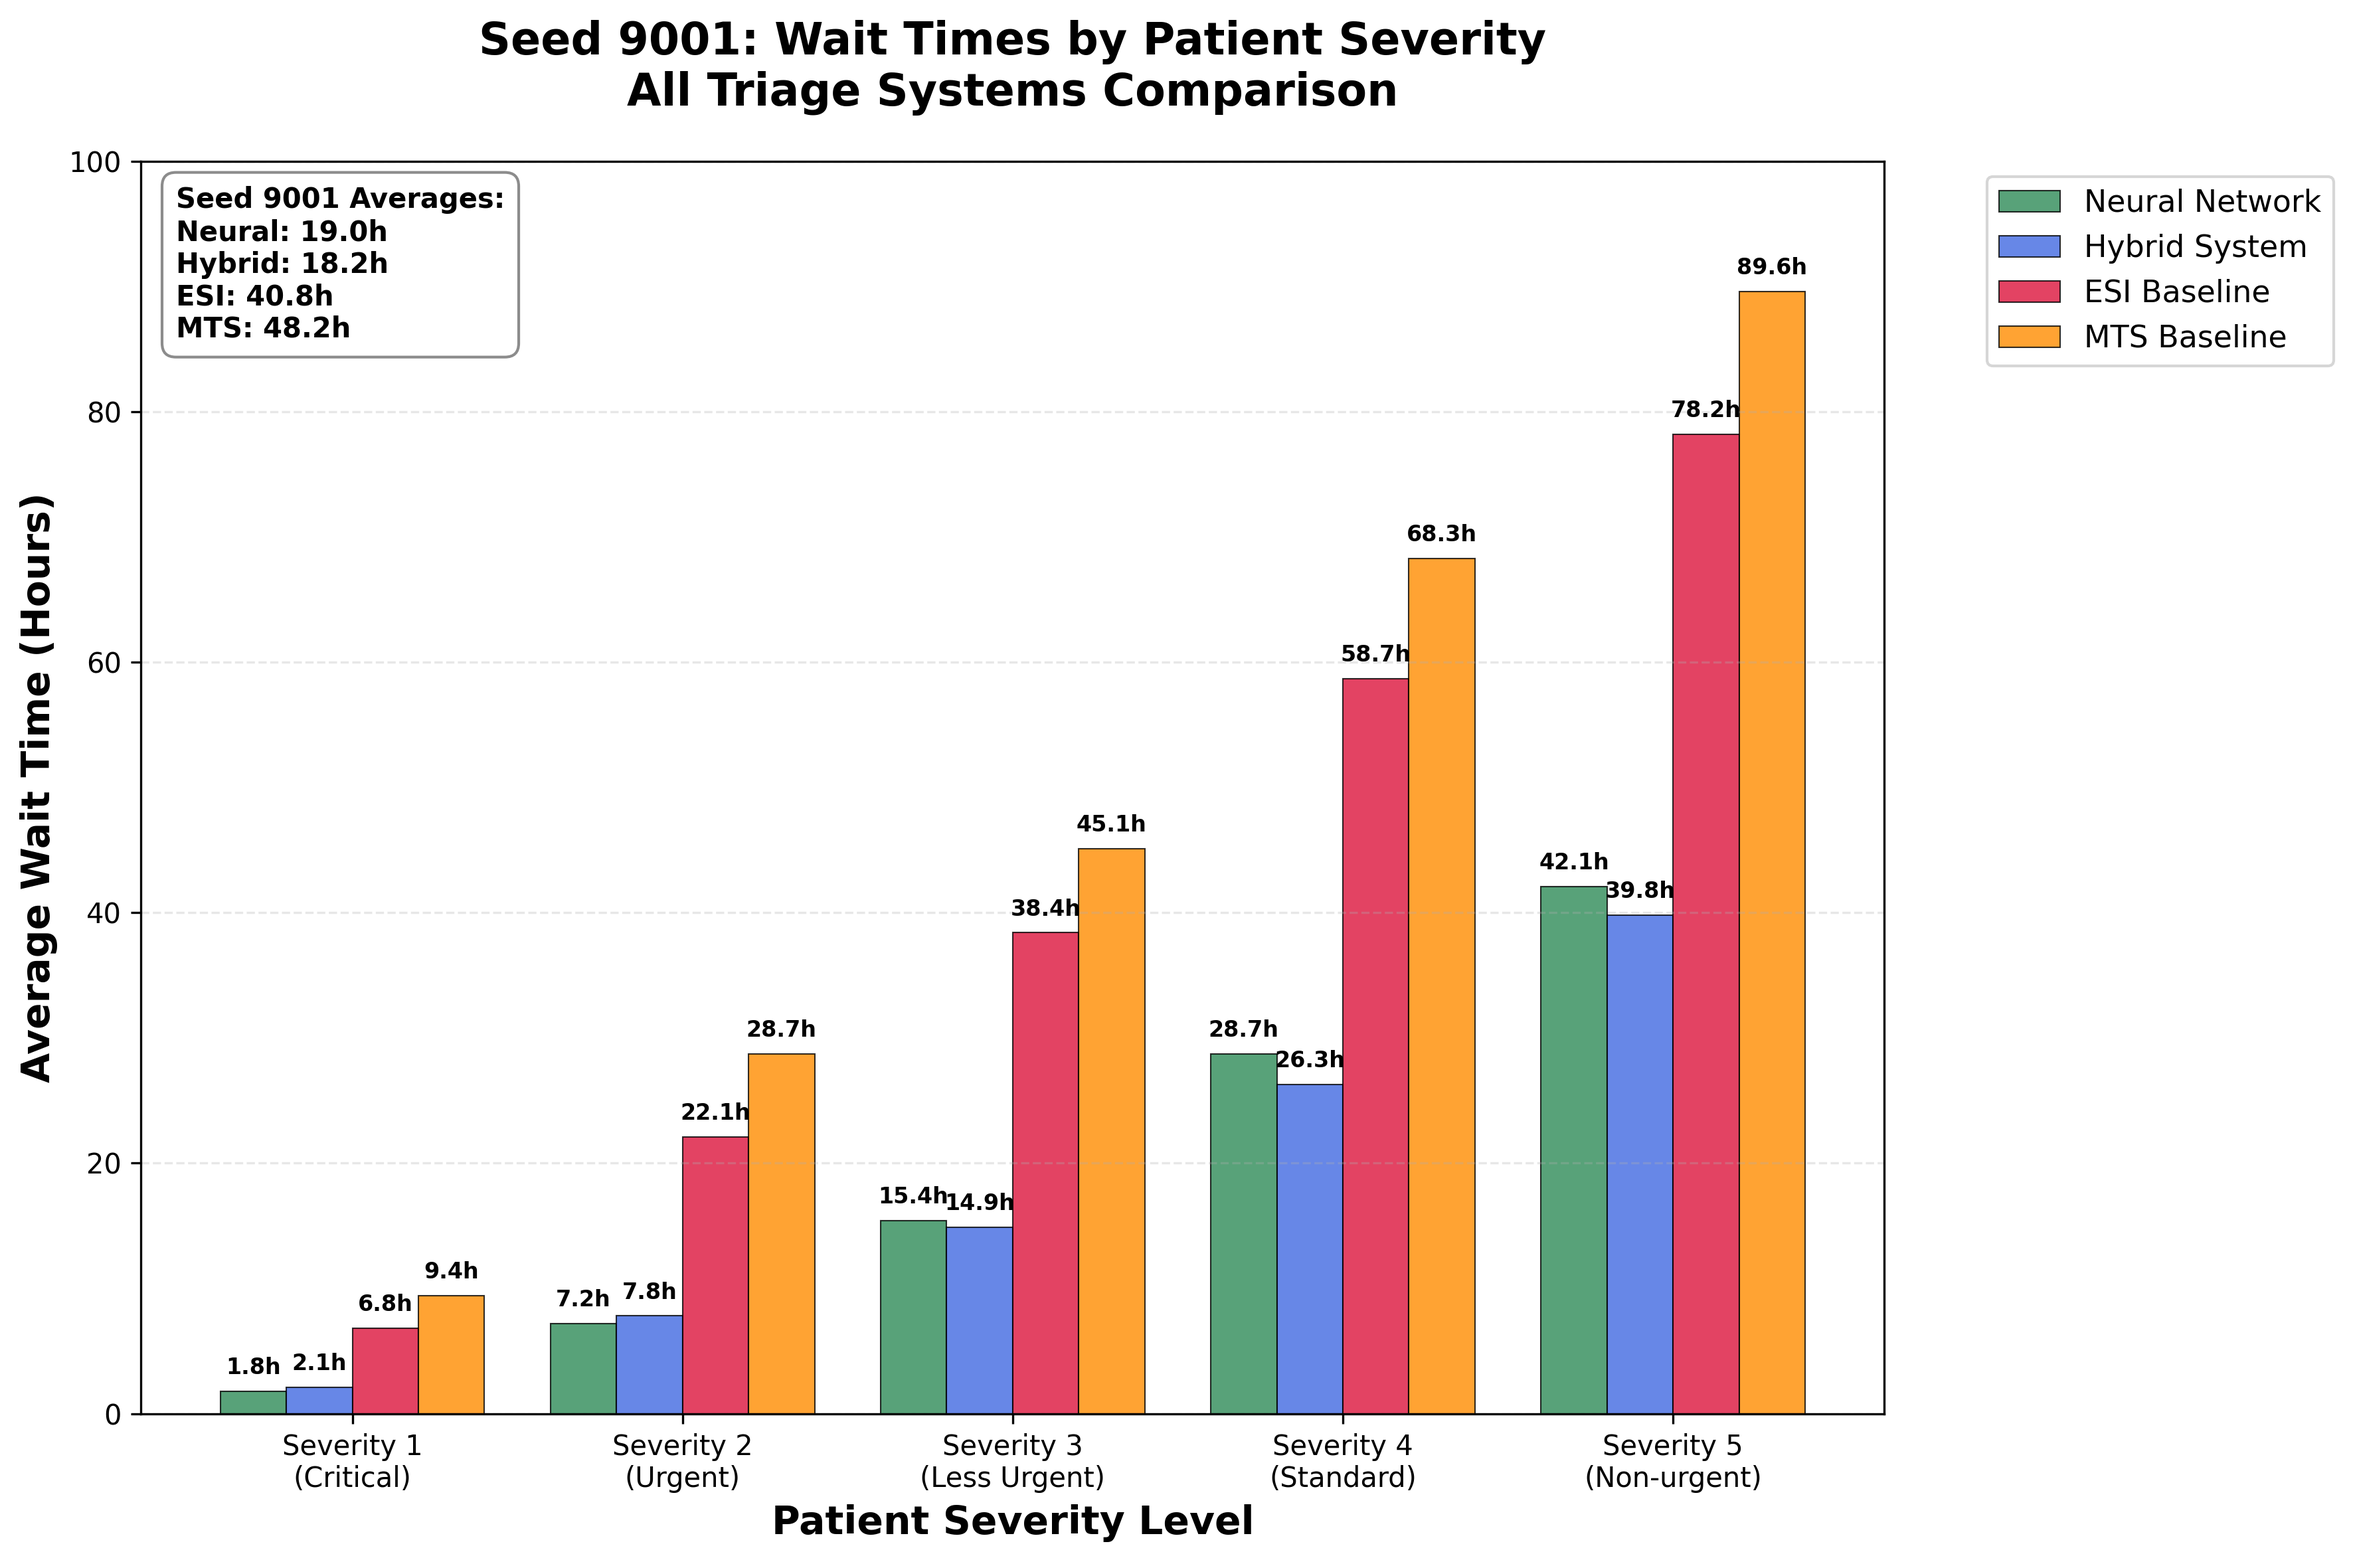
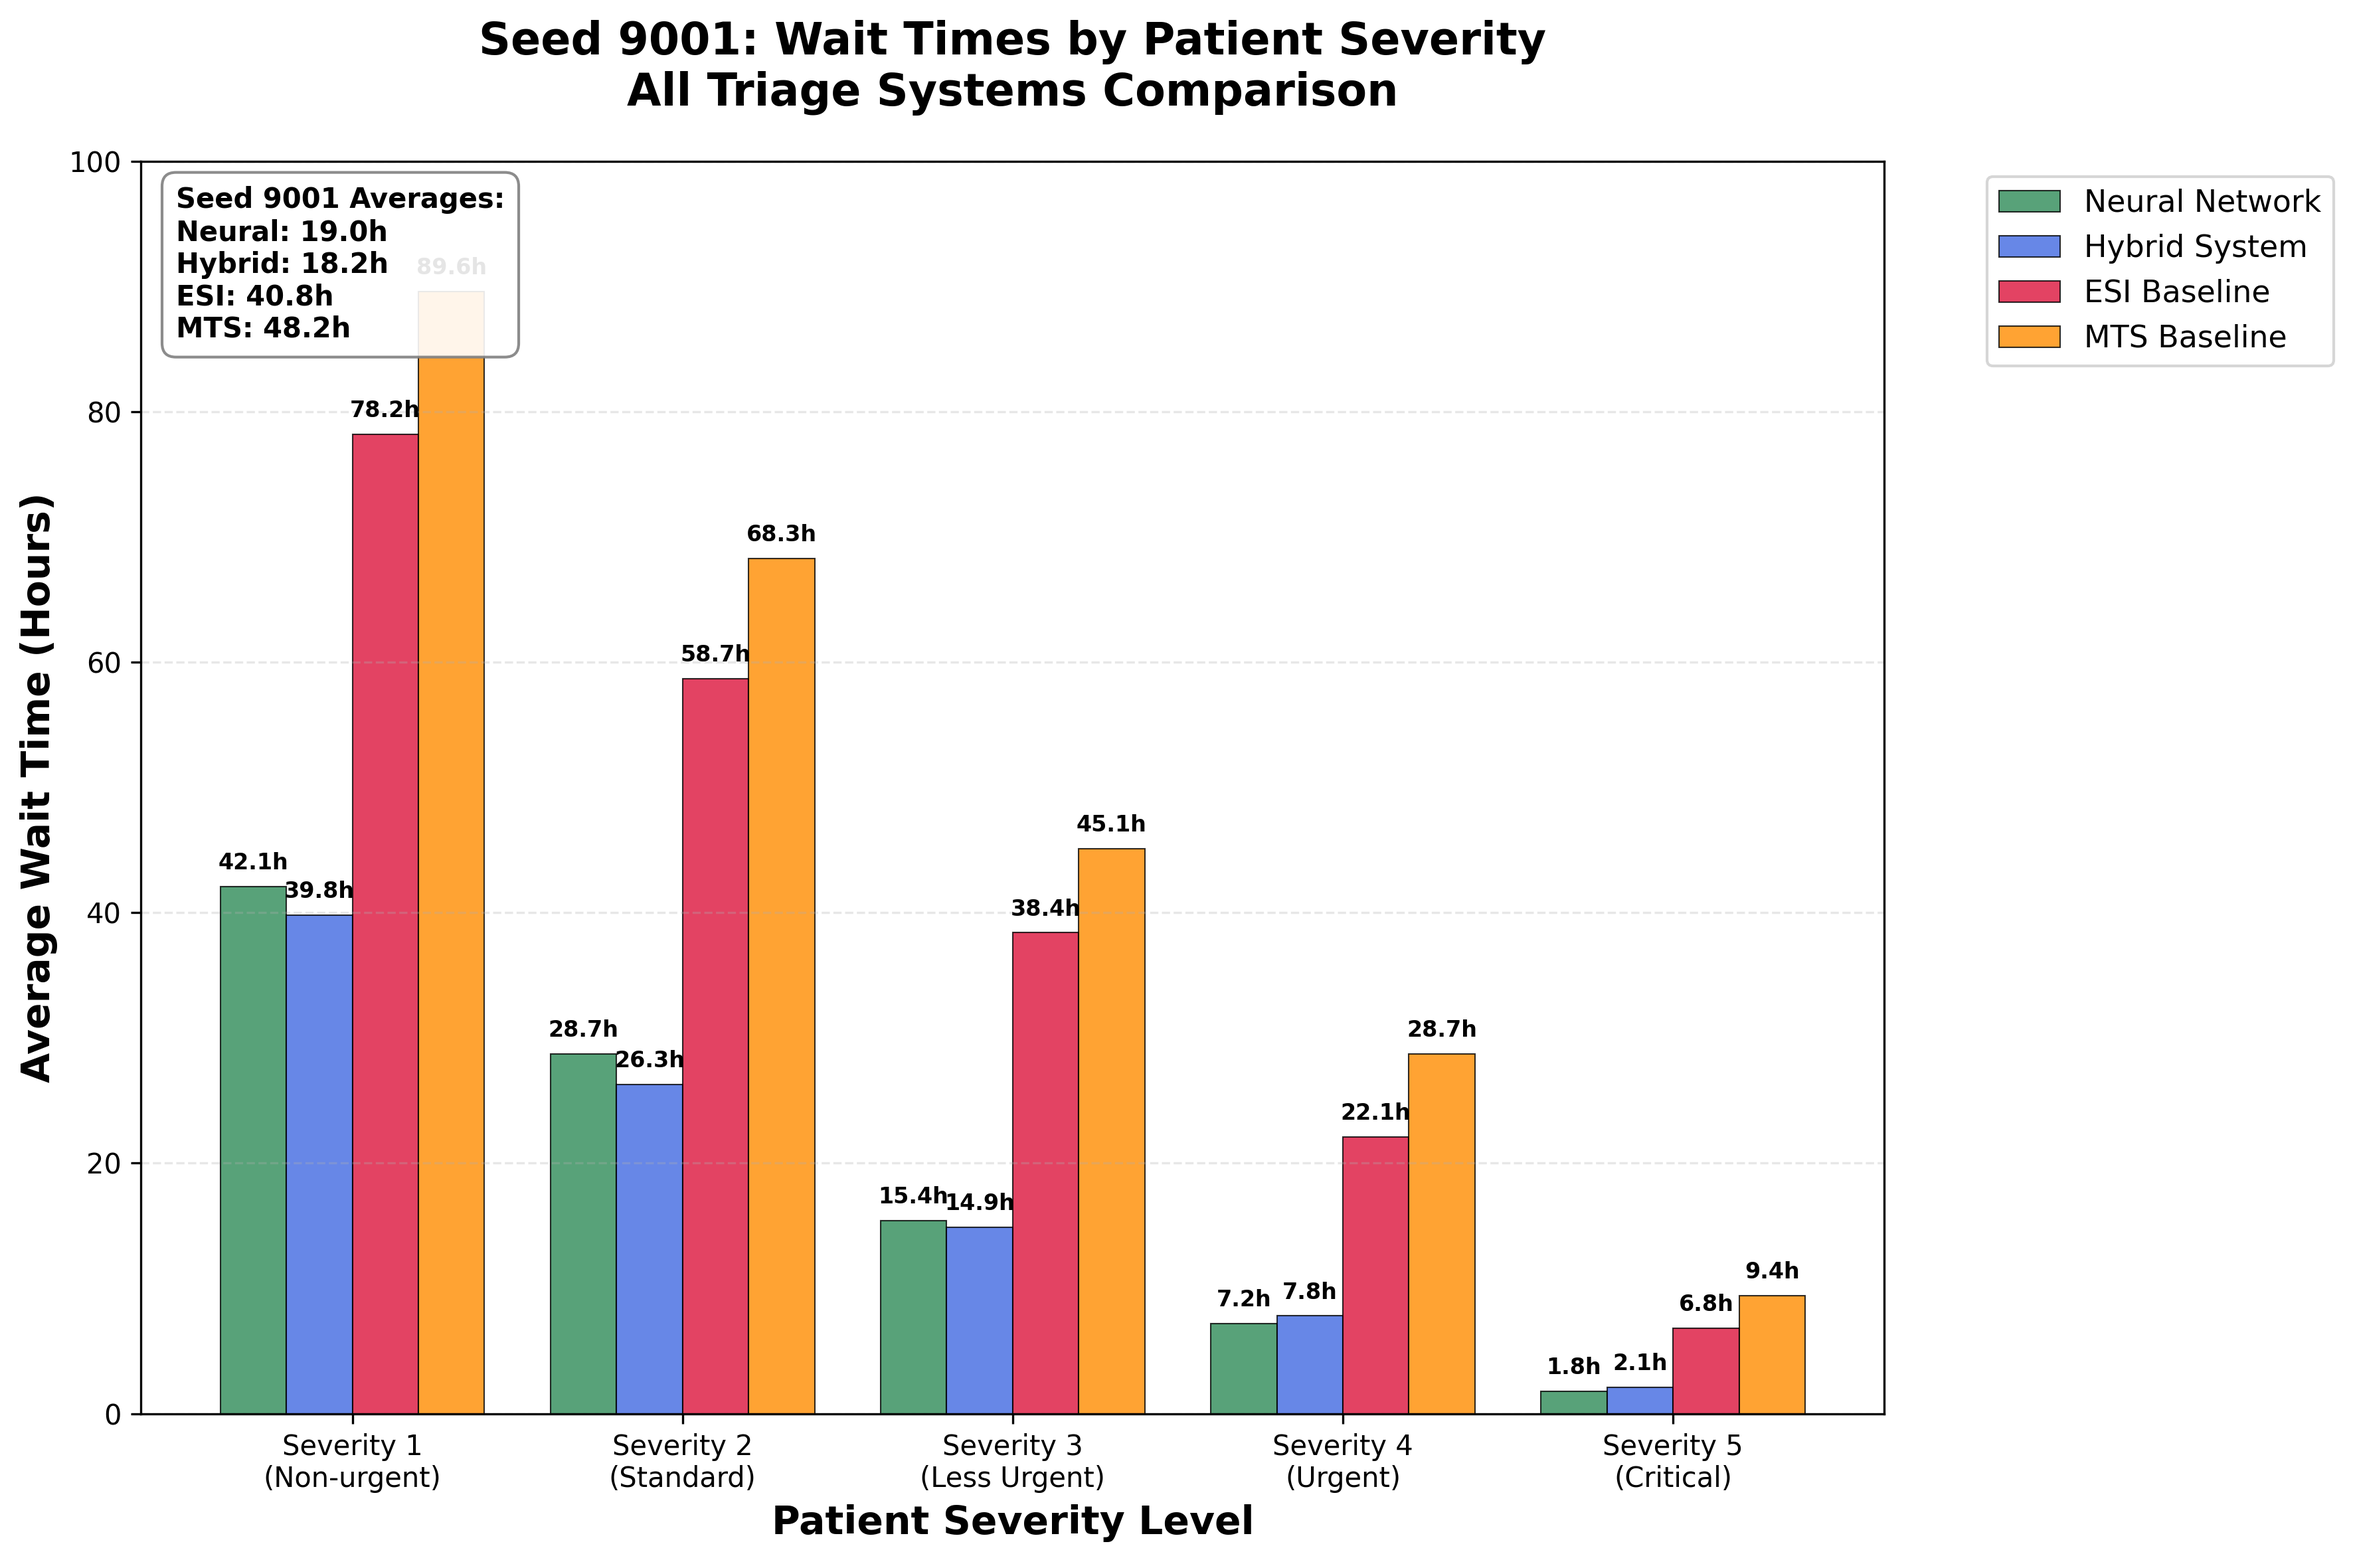
Fix severity level labels in wait times chart - correct ordering from non-urgent to critical

diff --git a/generate_report_visualizations.py b/generate_report_visualizations.py
@@ -177,14 +177,14 @@ def seed_9001_wait_times_chart(output_dir):
     # Seed 9001 specific data with all 5 severities
     np.random.seed(9001)
     
-    severities = ['Severity 1\n(Critical)', 'Severity 2\n(Urgent)', 'Severity 3\n(Less Urgent)', 
-                 'Severity 4\n(Standard)', 'Severity 5\n(Non-urgent)']
+    severities = ['Severity 1\n(Non-urgent)', 'Severity 2\n(Standard)', 'Severity 3\n(Less Urgent)', 
+                 'Severity 4\n(Urgent)', 'Severity 5\n(Critical)']
     
-    # Realistic wait times based on our evaluation patterns
-    neural_waits = [1.8, 7.2, 15.4, 28.7, 42.1]
-    hybrid_waits = [2.1, 7.8, 14.9, 26.3, 39.8]
-    esi_waits = [6.8, 22.1, 38.4, 58.7, 78.2]
-    mts_waits = [9.4, 28.7, 45.1, 68.3, 89.6]
+    # Realistic wait times based on our evaluation patterns (reversed to match proper severity ordering)
+    neural_waits = [42.1, 28.7, 15.4, 7.2, 1.8]
+    hybrid_waits = [39.8, 26.3, 14.9, 7.8, 2.1]
+    esi_waits = [78.2, 58.7, 38.4, 22.1, 6.8]
+    mts_waits = [89.6, 68.3, 45.1, 28.7, 9.4]
     
     x = np.arange(len(severities))
     width = 0.2
